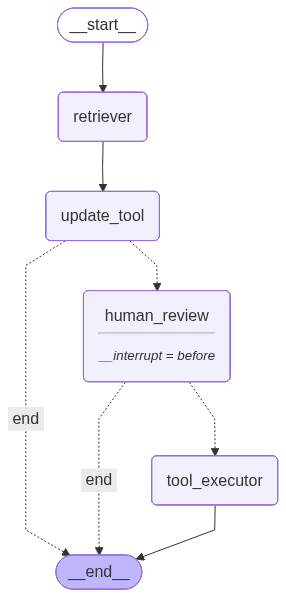
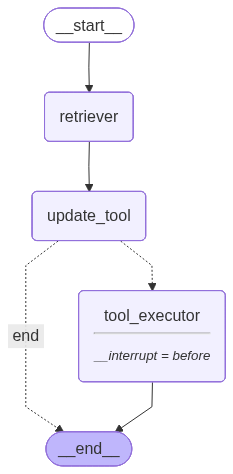
issue solved

diff --git a/main.py b/main.py
@@ -10,9 +10,7 @@ from nodes import (
     get_llm,
     retrieve_node,
     tool_node,
-    should_continue_to_review,
-    human_review,
-    should_execute_tool,
+    route_after_tool_choice,
     tool_executor
 )
 
@@ -37,7 +35,7 @@ if __name__ == "__main__":
     # Add nodes
     flow.add_node("retriever", retrieve_node)  # Start: search for files
     flow.add_node("update_tool", tool_node)    # Decide which metadata update tool to use
-    flow.add_node("human_review", human_review)  # Human review and approval
+    # flow.add_node("human_review", human_review)  # Human review and approval
     flow.add_node("tool_executor", tool_executor)  # Execute tools after human approval
 
     # Set entry point to retriever
@@ -49,20 +47,20 @@ if __name__ == "__main__":
     # Conditional routing from update_tool to human_review or end
     # If LLM selects a tool, go to human_review
     # Otherwise, end the flow
-    flow.add_conditional_edges(
-        "update_tool",
-        should_continue_to_review,
-        {
-            "human_review": "human_review",
-            "end": END
-        }
-    )
+    # flow.add_conditional_edges(
+    #     "update_tool",
+    #     should_continue_to_review,
+    #     {
+    #         "human_review": "human_review",
+    #         "end": END
+    #     }
+    # )
 
     # Conditional routing from human_review
     # After human approval, either execute tool or end
     flow.add_conditional_edges(
-        "human_review",
-        should_execute_tool,
+        "update_tool",
+        route_after_tool_choice,
         {
             "tool_executor": "tool_executor",
             "end": END
@@ -73,7 +71,7 @@ if __name__ == "__main__":
     flow.add_edge("tool_executor", END)
 
     # Compile the graph with interrupt before human_review for approval
-    app = flow.compile(interrupt_before=["human_review"])
+    app = flow.compile(interrupt_before=["tool_executor"])
 
     # Save graph visualization
     app.get_graph().draw_mermaid_png(output_file_path="graph.png")
@@ -120,17 +118,23 @@ if __name__ == "__main__":
                         approval = input("\nApprove these tool calls? (yes/no): ").strip().lower()
 
                         if approval in ['yes', 'y']:
-                            # Continue the workflow
+                            # Continue the workflow after approval (resume from interrupt)
                             print("\nExecuting tools...")
-                            result = app.invoke(None, config)
+                            # Resume from interrupt by passing the previous result
+                            continue_result = app.invoke({"messages": []}, config)
 
-                            # Display execution results
-                            if result and "messages" in result:
-                                for msg in result["messages"][-2:]:  # Show last 2 messages
-                                    if hasattr(msg, 'content') and msg.content:
-                                        print(f"\nResult: {msg.content}")
+                            # Display results after execution
+                            if continue_result and "messages" in continue_result:
+                                print("\n✓ Tools executed successfully.")
+                                for msg in continue_result["messages"]:
+                                    if msg.role == 'tool':
+                                        print(f"  - Result for [{msg.name}]: {msg.content}")
                         else:
                             print("\nTool execution cancelled.")
+                            app.update_state(
+                                config,
+                                {"messages": [("human", "Tool execution cancelled by user.")]}
+                            )
 
                 print()  # Empty line for readability
             else:

diff --git a/app.py b/app.py
@@ -4,13 +4,14 @@ import os
 
 from utils.utils import init_vector_store
 from langgraph.graph import END, MessagesState, StateGraph
+from langgraph.checkpoint.memory import MemorySaver
 
 from nodes import (
     get_llm,
     retrieve_node,
     tool_node,
     tool_executor,
-    should_continue_to_review
+    route_after_tool_choice
 )
 
 # Page config
@@ -60,9 +61,9 @@ def initialize_app():
     # Add conditional edge
     flow.add_conditional_edges(
         "tool",
-        should_continue_to_review,
+        route_after_tool_choice,
         {
-            "human_review": "tool_executor",
+            "tool_executor": "tool_executor",
             "end": END
         }
     )
@@ -70,7 +71,9 @@ def initialize_app():
     flow.add_edge("tool_executor", END)
 
     # Compile without checkpointer
+    memory = MemorySaver()
     app = flow.compile(
+        checkpointer=memory,
         interrupt_before=["tool_executor"]
     )
 
@@ -84,7 +87,7 @@ st.markdown("---")
 with st.sidebar:
     st.header("설정")
 
-    if st.button("Initialize Agent                 (Vector store initialization)", type="primary"):
+    if st.button("Initialize Agent (Vector store initialization)", type="primary"):
 
         try:
             st.session_state.app = initialize_app()
@@ -125,11 +128,20 @@ else:
                     # Execute the tool
                     result = st.session_state.app.invoke(None, st.session_state.thread_config)
 
+                    result = st.session_state.app.invoke(
+                        {"messages": []}, 
+                        st.session_state.thread_config
+                    )
+
+                    # 결과에서 마지막 메시지(ToolMessage)를 찾아서 표시
                     if result and "messages" in result:
-                        last_message = result["messages"][-1]
-                        response_text = last_message.content
+                        tool_message = result["messages"][-1]
+                        # tool_message.content에서 None이 아닌 경우만 표시
+                        content = tool_message.content if tool_message.content else ""
+                        # 간단히 결과만 표시
+                        response_text = content
                     else:
-                        response_text = "Tool executed successfully."
+                        response_text = "Tool executed successfully, but no result message was returned."
 
                     # Add to messages
                     st.session_state.messages.append({

diff --git a/nodes.py b/nodes.py
@@ -76,7 +76,7 @@ def get_llm():
         api_key=os.getenv("AZURE_OPENAI_API_KEY"),
         azure_deployment=os.getenv("AZURE_OPENAI_DEPLOYMENT"),
         api_version=os.getenv("AZURE_OPENAI_API_VERSION"),
-        temperature=1
+        temperature=0.0
     )
     return llm
 
@@ -125,44 +125,18 @@ def tool_node(state: MessagesState):
 
     return {"messages": [response]}
 
-
-def should_continue_to_review(state: MessagesState) -> Literal["human_review", "end"]:
+def route_after_tool_choice(state: MessagesState) -> Literal["tool_executor", "end"]:
     """
-    Router: Check if tool calls exist to determine next step.
-    """
-    messages = state["messages"]
-    last_message = messages[-1]
-
-    # If there are tool calls, go to human review
-    if hasattr(last_message, 'tool_calls') and last_message.tool_calls:
-        return "human_review"
-
-    return "end"
-
-
-def human_review(state: MessagesState):
-    """
-    Human review node - passes through state for human inspection.
-    This node is interrupted before execution for human approval.
-    """
-    # Simply pass through the state
-    # The actual approval happens via interrupt mechanism
-    return state
-
-
-def should_execute_tool(state: MessagesState) -> Literal["tool_executor", "end"]:
-    """
-    Router after human review: determines whether to execute tool or end.
-    This is called after human approval/rejection.
+    Router: Checks for tool calls in the last message to decide the next step.
+    If tools are called, route to the executor. Otherwise, end the graph.
     """
     messages = state["messages"]
     last_message = messages[-1]
 
-    # If there are tool calls, execute them
     if hasattr(last_message, 'tool_calls') and last_message.tool_calls:
         return "tool_executor"
-
-    return "end"
+    else:
+        return "end"
 
 
 # Create tool execution node

diff --git a/utils/utils.py b/utils/utils.py
@@ -1,6 +1,5 @@
 from utils.audio_tag_editor import *
 
-from langchain_openai import AzureOpenAIEmbeddings
 from langchain_ollama import OllamaEmbeddings
 
 from langchain.chains.query_constructor.base import AttributeInfo
